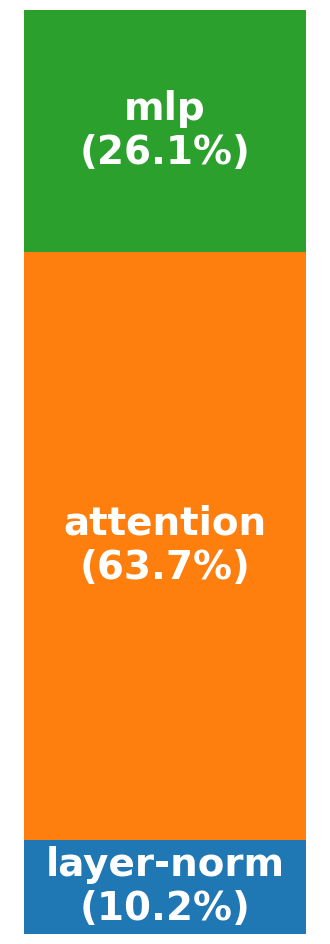
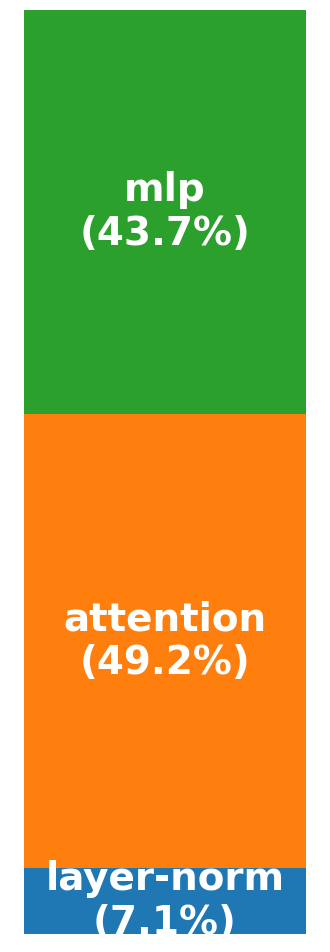
add nvtx annotations to gpt2 train script

Changed region(s): [[0.0606, 0.0922, 0.9394, 0.4608], [0.1818, 0.5222, 0.8182, 0.7066], [0.0606, 0.8909, 0.9394, 1.0]]

diff --git a/train_gpt2.py b/train_gpt2.py
@@ -8,6 +8,9 @@ from typing import Tuple
 from rotary_embedding import apply_rotary_emb_func, \
     apply_rotary_emb_func2, apply_rotary_emb_func3, \
         apply_rotary_emb_triton
+import nvtx
+
+enable_nvtx = False
 
 # -----------------------------------------------------------------------------
 
@@ -115,16 +118,23 @@ class CausalSelfAttention(nn.Module):
         # calculate query, key, values for all heads in batch and move head forward to be the batch dim
         # nh is "number of heads", hs is "head size", and C (number of channels) = nh * hs
         # e.g. in GPT-2 (124M), n_head=12, hs=64, so nh*hs=C=768 channels in the Transformer
+        if enable_nvtx: 
+            start = nvtx.start_range(message="qkv_proj", color="blue")
         qkv = self.c_attn(x)
         q, k, v = qkv.split(self.n_embd, dim=2)
         k = k.view(B, T, self.n_head, C // self.n_head)
         q = q.view(B, T, self.n_head, C // self.n_head)
+        if enable_nvtx:
+            torch.cuda.synchronize()
+            nvtx.end_range(start)
         
         # print('k', k.shape)
         # print('q', q.shape)
+        if enable_nvtx:
+            start = nvtx.start_range(message="rope", color="blue")
         
         # apply rotary embedding to the keys
-        # q, k = apply_rotary_emb(q, k, freqs_cis)
+        q, k = apply_rotary_emb(q, k, freqs_cis)
         
         # q = apply_rotary_emb_func(q, sin, cos, True, False)
         # k = apply_rotary_emb_func(k, sin, cos, True, False)
@@ -136,13 +146,18 @@ class CausalSelfAttention(nn.Module):
         # k = apply_rotary_emb_func3(k, sin, cos, True, False)
         
         # triton implementation does not work because bfloat16 is not implemented
-        q = apply_rotary_emb_triton(q, cos, sin, True, False)
-        k = apply_rotary_emb_triton(k, cos, sin, True, False)
+        # q = apply_rotary_emb_triton(q, cos, sin, True, False)
+        # k = apply_rotary_emb_triton(k, cos, sin, True, False)
+        if enable_nvtx:
+            torch.cuda.synchronize()
+            nvtx.end_range(start)
         
         # print('k', k.shape)
         # print('q', q.shape)
         # exit(0)
                     
+        if enable_nvtx:
+            start = nvtx.start_range(message="fsdpa", color="blue")
         k = k.transpose(1, 2) # (B, nh, T, hs)
         q = q.transpose(1, 2) # (B, nh, T, hs)
         v = v.view(B, T, self.n_head, C // self.n_head).transpose(1, 2) # (B, nh, T, hs)
@@ -151,8 +166,18 @@ class CausalSelfAttention(nn.Module):
         
         y = F.scaled_dot_product_attention(q, k, v, is_causal=True) # flash attention
         y = y.transpose(1, 2).contiguous().view(B, T, C) # re-assemble all head outputs side by side
+        
+        if enable_nvtx:
+            torch.cuda.synchronize()
+            nvtx.end_range(start)
+        
+        if enable_nvtx:
+            start = nvtx.start_range(message="output_proj", color="blue")
         # output projection
         y = self.c_proj(y)
+        if enable_nvtx:
+            torch.cuda.synchronize()
+            nvtx.end_range(start)
         return y
 
 class MLP(nn.Module):
@@ -180,8 +205,27 @@ class Block(nn.Module):
         self.mlp = MLP(config)
 
     def forward(self, x, freqs_cis, sin=None, cos=None):
-        x = x + self.attn(self.ln_1(x), freqs_cis, sin, cos)
-        x = x + self.mlp(self.ln_2(x))
+        if enable_nvtx:
+            start = nvtx.start_range(message="layer-norm", color="blue")
+        x = self.ln_1(x)
+        if enable_nvtx:
+            torch.cuda.synchronize()
+            nvtx.end_range(start)
+            start = nvtx.start_range(message="attention", color="blue")
+        x = x + self.attn(x, freqs_cis, sin, cos)
+        if enable_nvtx:
+            torch.cuda.synchronize()
+            nvtx.end_range(start)
+            start = nvtx.start_range(message="layer-norm", color="blue")
+        x = self.ln_2(x)
+        if enable_nvtx:
+            torch.cuda.synchronize()
+            nvtx.end_range(start)
+            start = nvtx.start_range(message="mlp", color="blue")
+        x = x + self.mlp(x)
+        if enable_nvtx:
+            torch.cuda.synchronize()
+            nvtx.end_range(start)
         return x
     
 def precompute_freqs_cis(dim: int, end: int, theta: float = 10000.0, device=None
@@ -314,18 +358,41 @@ class GPT(nn.Module):
         # forward the token and posisition embeddings
         # pos = torch.arange(0, T, dtype=torch.long, device=idx.device) # shape (T)
         # pos_emb = self.transformer.wpe(pos) # position embeddings of shape (T, n_embd)
+        if enable_nvtx:
+            start = nvtx.start_range(message="token-emb", color="blue")
         tok_emb = self.transformer.wte(idx) # token embeddings of shape (B, T, n_embd)
         x = tok_emb
+        if enable_nvtx:
+            torch.cuda.synchronize()
+            nvtx.end_range(start)
         # x = tok_emb + pos_emb
         # forward the blocks of the transformer
+        if enable_nvtx:
+            start = nvtx.start_range(message="transformer", color="blue")
         for block in self.transformer.h:
             x = block(x, freqs_cis = self.freqs_cis, sin=self.sin, cos=self.cos)
+        if enable_nvtx:
+            torch.cuda.synchronize()
+            nvtx.end_range(start)
         # forward the final layernorm and the classifier
+        if enable_nvtx:
+            start = nvtx.start_range(message="layer-norm-final", color="blue")
         x = self.transformer.ln_f(x)
+        if enable_nvtx:
+            torch.cuda.synchronize()
+            nvtx.end_range(start)
+            start = nvtx.start_range(message="lm-head", color="blue")
         logits = self.lm_head(x) # (B, T, vocab_size)
+        if enable_nvtx:
+            torch.cuda.synchronize()
+            nvtx.end_range(start)
+            start = nvtx.start_range(message="loss", color="blue")
         loss = None
         if targets is not None:
             loss = F.cross_entropy(logits.view(-1, logits.size(-1)), targets.view(-1))
+        if enable_nvtx:
+            torch.cuda.synchronize()
+            nvtx.end_range(start)
         return logits, loss
 
     @classmethod
@@ -465,7 +532,7 @@ model.to(device)
 max_lr = 6e-4
 min_lr = max_lr * 0.1
 warmup_steps = 10
-max_steps = 55
+max_steps = 25
 def get_lr(it):
     # 1) linear warmup for warmup_iters steps
     if it < warmup_steps:

diff --git a/README.md b/README.md
@@ -39,6 +39,10 @@ nsys profile -f true -o profile_reports/default_rope python test_llama_rotary_em
 
 nsys profile -f true -o profile_reports/custom_rope python test_tiny_llama_rotary_embedding.py
 
+nsys profile -f true -o profile_reports/rope python train_gpt2.py
+
+nsys stats --force-export=true profile_reports/rope.nsys-rep
+
 # to view aggregate range summary
 nsys stats --force-export=true profile_reports/custom_rope.nsys-rep
 
